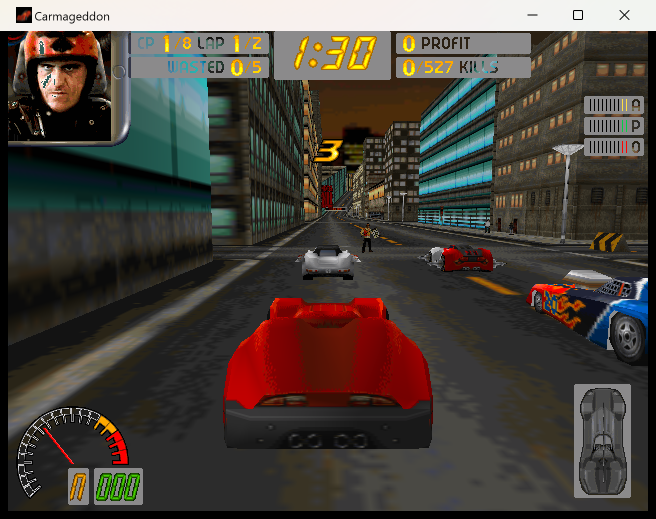
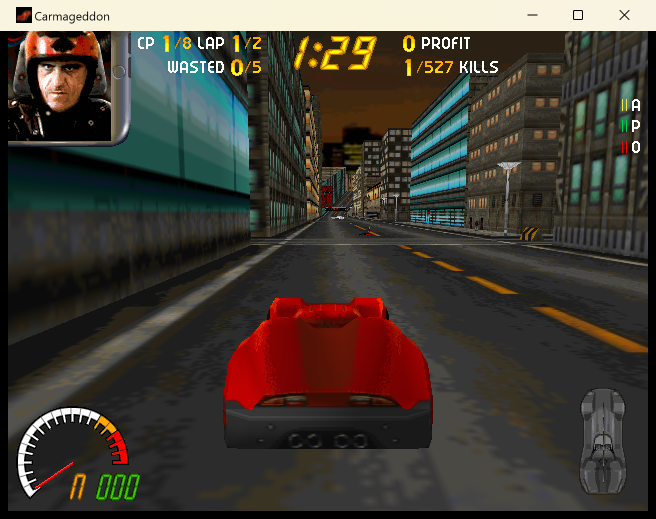
render_vk: restore 8-bit transparency and black texture keying
Use palette index 0 as the 2D overlay transparent key so index-255 white portrait pixels stay opaque, and write black texture texels with alpha 0 so colour-keyed car sprites no longer show opaque black backgrounds. Discard alpha below 0.01 in the world shader.

diff --git a/src/DETHRACE/common/render_vk_bridge.c b/src/DETHRACE/common/render_vk_bridge.c
@@ -23,6 +23,7 @@
 #define GAME_RENDER_INITIAL_VERTICES 4096u
 #define GAME_RENDER_INITIAL_INDICES 12288u
 #define GAME_RENDER_INITIAL_DRAWS 256u
+#define GAME_RENDER_TRANSPARENT_INDEX 0u
 
 typedef struct GameRenderTextureEntry {
     br_pixelmap *source;
@@ -201,7 +202,7 @@ static int GameRender_ConvertPixelmap(br_pixelmap *pm, uint8_t *rgba8) {
                 *out++ = (uint8_t)((colour >> 16) & 0xFFu);
                 *out++ = (uint8_t)((colour >> 8) & 0xFFu);
                 *out++ = (uint8_t)(colour & 0xFFu);
-                *out++ = 255;
+                *out++ = (colour & 0xFFFFFFu) == 0 ? 0 : 255;
             }
         }
         return 1;
@@ -213,7 +214,7 @@ static int GameRender_ConvertPixelmap(br_pixelmap *pm, uint8_t *rgba8) {
                 *out++ = GameRender_Expand5((value >> 11) & 31u);
                 *out++ = GameRender_Expand6((value >> 5) & 63u);
                 *out++ = GameRender_Expand5(value & 31u);
-                *out++ = 255;
+                *out++ = value == 0 ? 0 : 255;
             }
         }
         return 1;
@@ -225,7 +226,7 @@ static int GameRender_ConvertPixelmap(br_pixelmap *pm, uint8_t *rgba8) {
                 *out++ = texel[2];
                 *out++ = texel[1];
                 *out++ = texel[0];
-                *out++ = 255;
+                *out++ = (texel[0] | texel[1] | texel[2]) == 0 ? 0 : 255;
             }
         }
         return 1;
@@ -716,7 +717,7 @@ static int GameRender_BuildOverlay(br_pixelmap *back) {
             dest = gRenderVk_overlay + (size_t)y * width;
             for (x = 0; x < width; x++) {
                 value = row[x];
-                if (value == 255u) {
+                if (value == GAME_RENDER_TRANSPARENT_INDEX) {
                     dest[x] = 0;
                 } else if (palette != NULL && GameRender_PaletteColour(palette, value, &colour)) {
                     dest[x] = ((colour >> 16) & 0xFFu) | (colour & 0x0000FF00u) | ((colour & 0xFFu) << 16) | 0xFF000000u;
@@ -929,7 +930,7 @@ void GameRender_Begin2D(br_pixelmap *back) {
     case BR_PMT_INDEX_8:
         for (y = 0; y < back->height; y++) {
             row = GameRender_RowPointer(back, y, 1);
-            memset(row, 255, back->width);
+            memset(row, GAME_RENDER_TRANSPARENT_INDEX, back->width);
         }
         break;
     case BR_PMT_RGB_565:

diff --git a/docs/render-vk-architecture.md b/docs/render-vk-architecture.md
@@ -151,10 +151,10 @@ The frame uses:
 - `rvk_draw_overlay` for the existing 16-bit/8-bit HUD surface while the UI is ported;
 - `rvk_create_texture` with bridge-side texture caching, and prepared `v11group` data for track
   models whose original vertex/face arrays were released by `DodgyModelUpdate`;
-- material opacity and colour-key handling. The world pipeline blends with source alpha, and the
-  fragment shader currently discards near-black final texels unconditionally as a conservative
-  colour-key fallback. This removes black sprite rectangles such as the car's spike sprite;
-  material flags remain in the draw record for a later, exact colour-key pass;
+- material opacity and colour-key handling. Black texels in the converted 8-bit/16-bit/24-bit
+  images receive alpha 0, the fragment shader discards alpha below 0.01, and the world pipeline
+  blends with source alpha. This removes black sprite rectangles such as the car's spike sprite.
+  The 2D overlay treats palette index 0 as transparent, preserving index 255 white highlights;
 - an initial horizon pass. Four copies of `HORIZON.MAT` cover the full circle at a fixed world
   yaw while following the camera position, so camera turns reveal a different part of the
   background instead of dragging the whole panorama with the view. The copies are submitted

diff --git a/plan.md b/plan.md
@@ -125,9 +125,9 @@ bottleneck.
 The world and overlay passes, depth, textures, sampler/descriptor arrays and one frame in flight
 exist. BRender's reversed depth convention is mapped explicitly; without it the track occludes the
 car. `BR_RSTYLE_NONE` prunes the actor subtree, which keeps hidden car variants and their child
-parts (such as `FIN.DAT`) out of the frame. The world pipeline blends by source alpha and currently
-discards near-black final texels unconditionally as a conservative colour-key fallback; an exact
-per-material colour-key path remains. The first race
+parts (such as `FIN.DAT`) out of the frame. Black texture texels receive alpha 0, the world
+pipeline blends by source alpha, and the 2D overlay uses palette index 0 as its transparent key
+while keeping index 255 white highlights opaque. The first race
 scene submits about 3408 draws, 38638 vertices and 65949 indices because the bridge emits one draw
 per material run with no batching. Four fixed-yaw horizon copies follow the camera position and
 cover the full circle; they are submitted before the world with depth testing behind the car and
